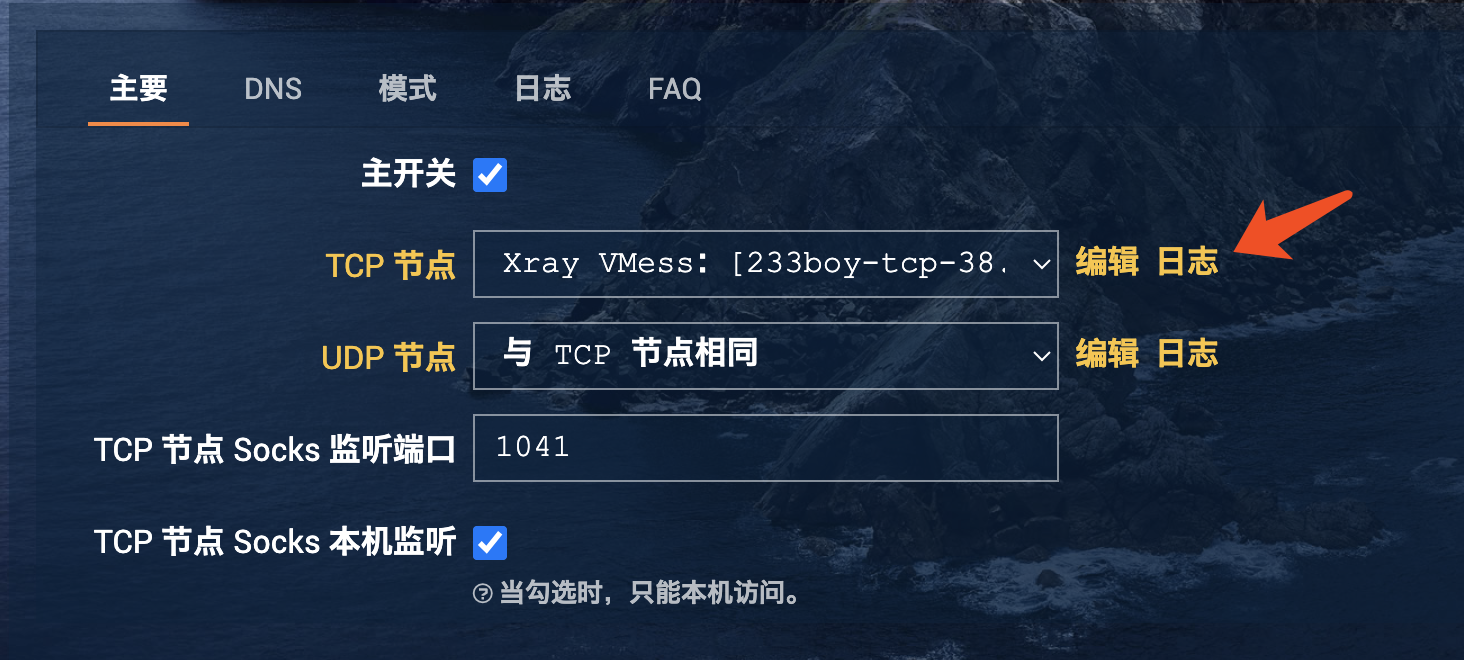
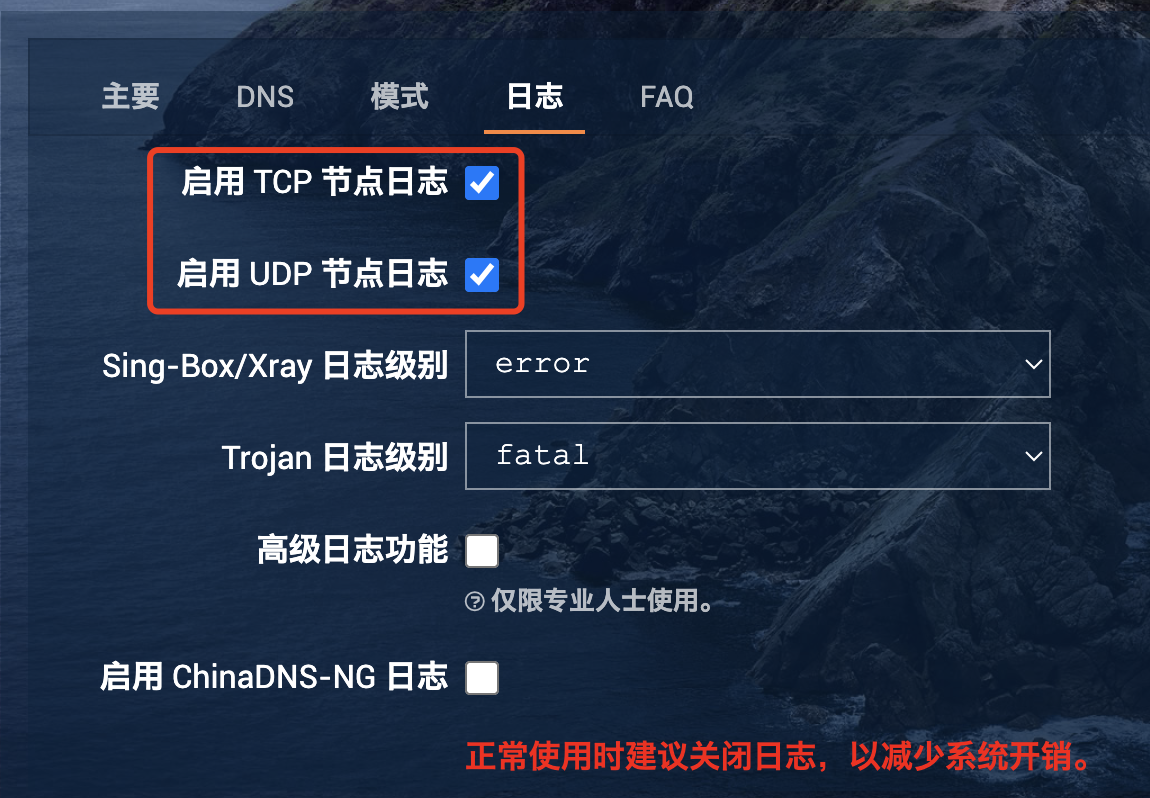
GITBOOK-127: No subject

diff --git a/Project/ji-lu/cong-ling-zhi-zuo-yi-kuan-you-xi/godot.md b/Project/ji-lu/cong-ling-zhi-zuo-yi-kuan-you-xi/godot.md
@@ -1,0 +1,15 @@
+# Godot
+
+## 搭建场景
+
+1. 碰撞层：项目 → 项目设置 → General → Layer Names → 2D Physics
+
+<figure><img src="../../.gitbook/assets/image.png" alt="" width="375"><figcaption></figcaption></figure>
+
+2.  怪物：新增场景CharacterBody2D，双击改名为：Enemy
+
+    <figure><img src="../../.gitbook/assets/image (5).png" alt="" width="375"><figcaption></figcaption></figure>
+
+添加占位方块（颜色）：ColorRect
+
+<figure><img src="../../.gitbook/assets/image (6).png" alt=""><figcaption></figcaption></figure>

diff --git a/Project/ji-lu/cong-ling-zhi-zuo-yi-kuan-you-xi/README.md b/Project/ji-lu/cong-ling-zhi-zuo-yi-kuan-you-xi/README.md
@@ -20,9 +20,9 @@
 ～这是一场深夜即兴演奏会
 {% endhint %}
 
-<figure><img src="../.gitbook/assets/image (2).png" alt="" width="188"><figcaption></figcaption></figure>
+<figure><img src="../../.gitbook/assets/image (2).png" alt="" width="188"><figcaption></figcaption></figure>
 
-<figure><img src="../.gitbook/assets/image (4).png" alt="" width="375"><figcaption></figcaption></figure>
+<figure><img src="../../.gitbook/assets/image (4).png" alt="" width="375"><figcaption></figcaption></figure>
 
 ## 开始制作游戏
 

diff --git a/Project/others/wifi.md b/Project/others/wifi.md
@@ -70,6 +70,6 @@ https://github.com/XTLS/Xray-core/releases/download/v25.12.8/Xray-linux-arm64-v8
 
 可以开启日志进行debug
 
-<figure><img src="../.gitbook/assets/image.png" alt="" width="375"><figcaption></figcaption></figure>
-
 <figure><img src="../.gitbook/assets/image (1).png" alt="" width="375"><figcaption></figcaption></figure>
+
+<figure><img src="../.gitbook/assets/image (1) (1).png" alt="" width="375"><figcaption></figcaption></figure>

diff --git a/Project/SUMMARY.md b/Project/SUMMARY.md
@@ -20,7 +20,8 @@
 
 ## 记录
 
-* [从零制作一款游戏](ji-lu/cong-ling-zhi-zuo-yi-kuan-you-xi.md)
+* [从零制作一款游戏](ji-lu/cong-ling-zhi-zuo-yi-kuan-you-xi/README.md)
+  * [Godot](ji-lu/cong-ling-zhi-zuo-yi-kuan-you-xi/godot.md)
 
 ## Others
 
